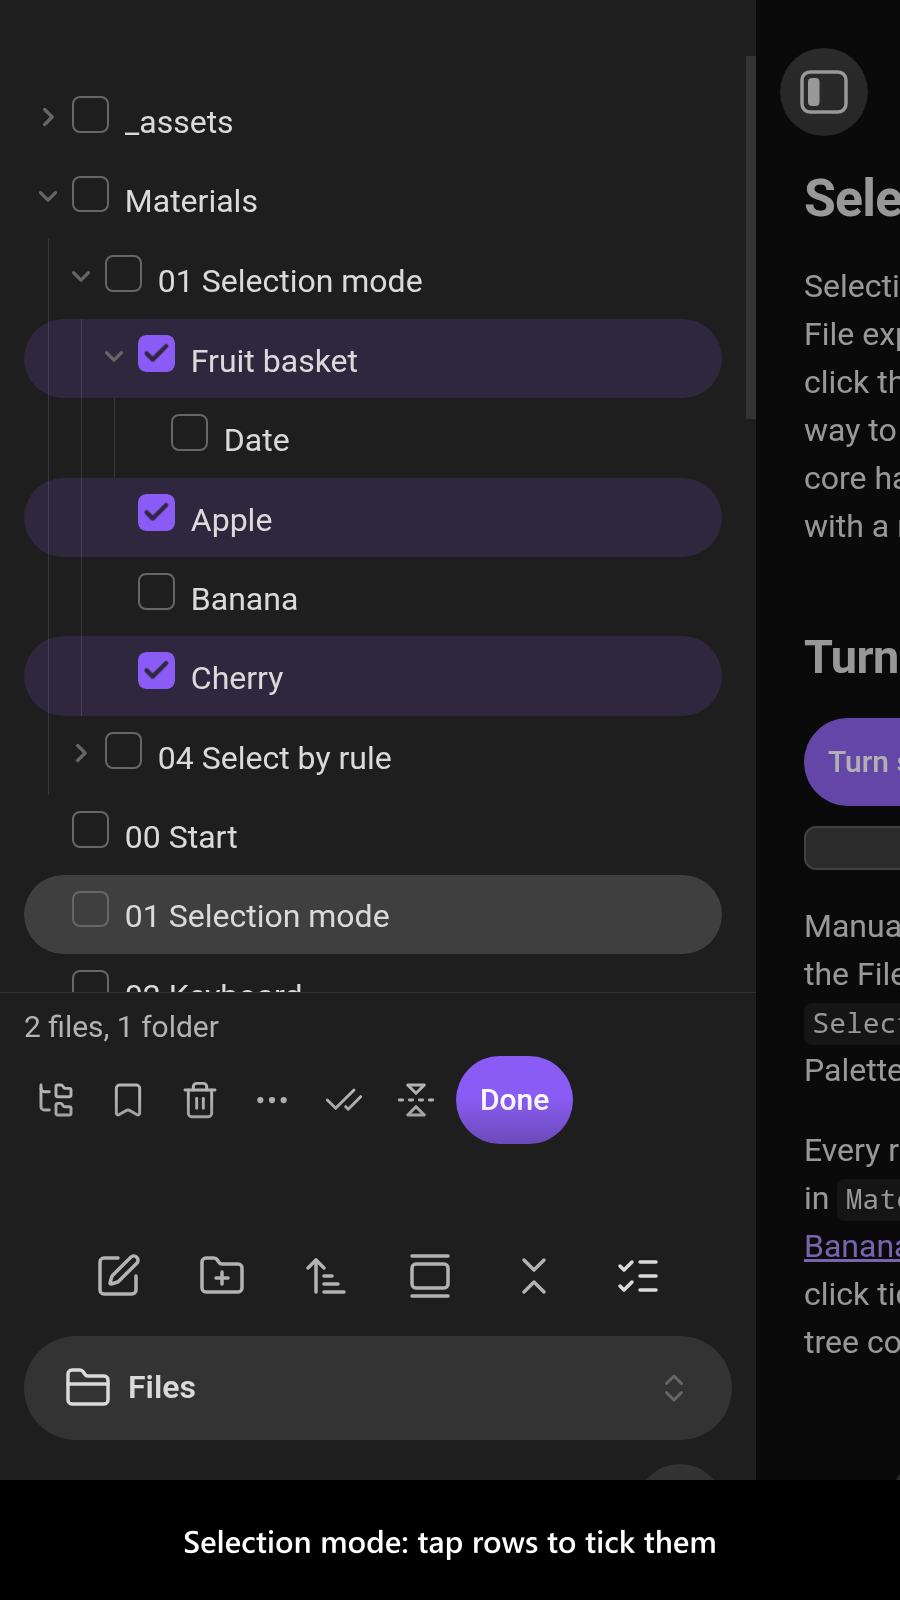
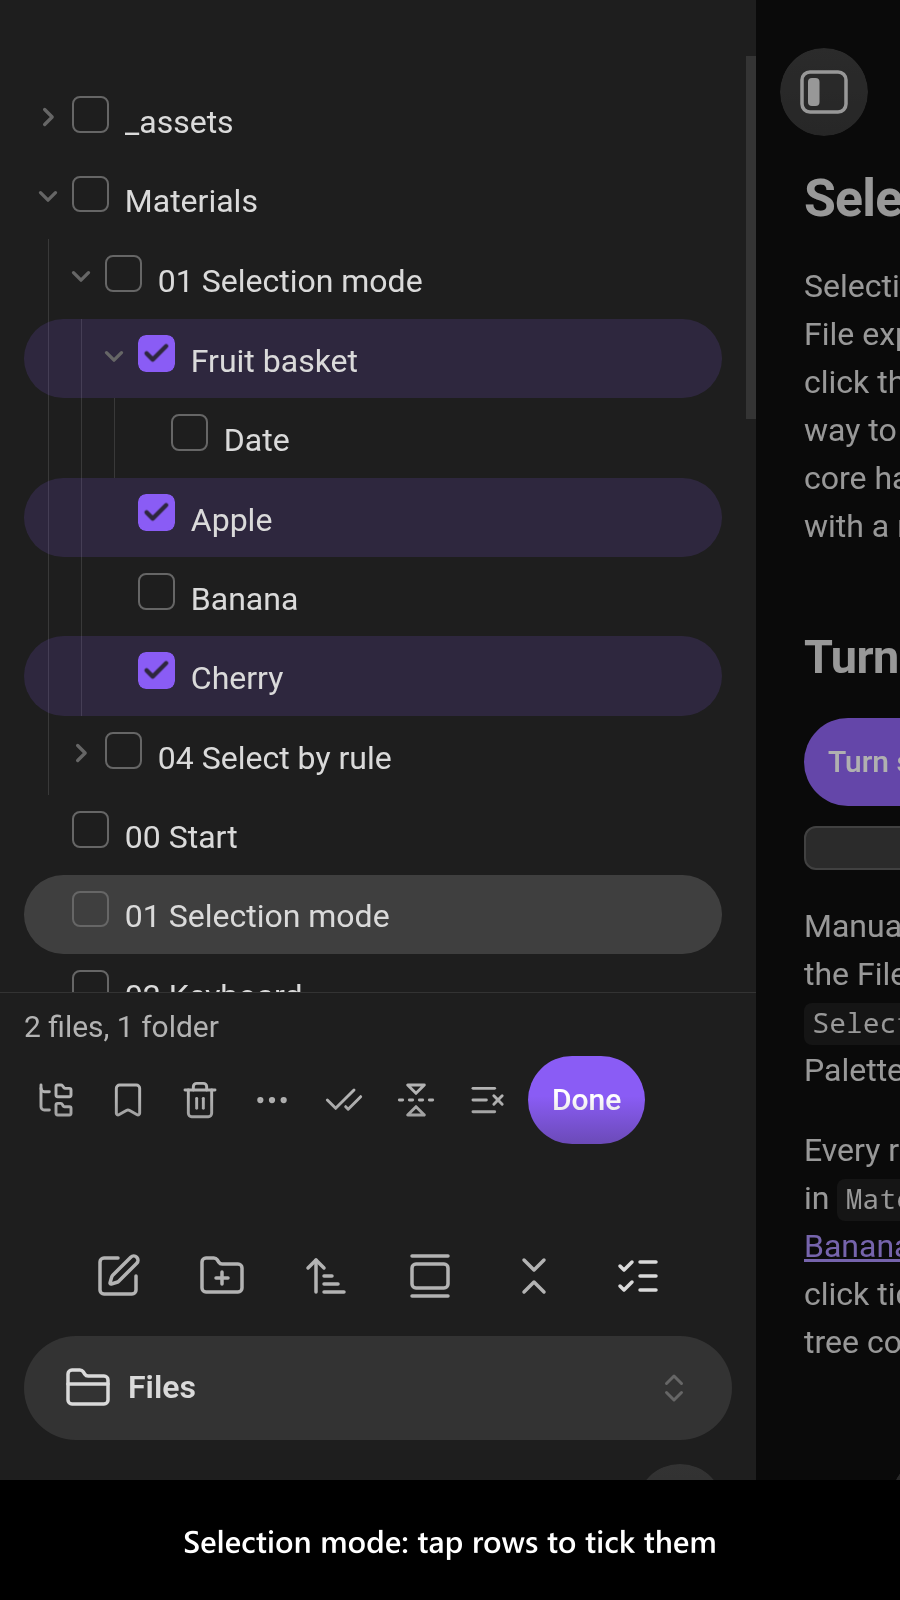
feat: add a Clear selection button to the selection mode's action bar

Changed region(s): [[0.4978, 0.6562, 0.7156, 0.7188]]

diff --git a/src/selection-mode.cross-platform.integration.test.ts b/src/selection-mode.cross-platform.integration.test.ts
@@ -40,6 +40,7 @@ interface MoreAndDeleteResult {
 interface TapResult {
   readonly activeFilePathAfterTaps: null | string;
   readonly activeFilePathBefore: null | string;
+  readonly afterClear: ModeSnapshot;
   readonly afterFolderTap: ModeSnapshot;
   readonly afterInvert: ModeSnapshot;
   readonly afterSelectAll: ModeSnapshot;
@@ -58,7 +59,7 @@ interface TurnOffResult {
 const OFF: ModeSnapshot = { countText: null, hasCheckbox: false, isActive: false, paths: [] };
 
 describe('selection mode in the File explorer', () => {
-  it('turns on from the header button, toggles rows on tap, counts, selects all, inverts and turns off', async () => {
+  it('turns on from the header button, toggles rows on tap, counts, selects all, clears, inverts and turns off', async () => {
     const tapResult = await evalInObsidian({
       async callback({ app, lib: { clickElement, waitUntil } }): Promise<TapResult> {
         const WAIT_TIMEOUT_IN_MILLISECONDS = 1500;
@@ -97,11 +98,18 @@ describe('selection mode in the File explorer', () => {
         await waitFor('select all', () => view.tree.selectedDoms.size > 2);
         const afterSelectAll = snapshot();
 
+        await clickElement({ element: getElement('[data-action="clear"]') });
+        await waitFor('clear', () => view.tree.selectedDoms.size === 0);
+        const afterClear = snapshot();
+
+        await clickElement({ element: getElement('[data-action="select-all"]') });
+        await waitFor('select all again', () => view.tree.selectedDoms.size > 2);
+
         await clickElement({ element: getElement('[data-action="invert"]') });
         await waitFor('invert', () => view.tree.selectedDoms.size === 0);
         const afterInvert = snapshot();
 
-        return { activeFilePathAfterTaps, activeFilePathBefore, afterFolderTap, afterInvert, afterSelectAll, afterTapAgain, afterTaps, afterToggle };
+        return { activeFilePathAfterTaps, activeFilePathBefore, afterClear, afterFolderTap, afterInvert, afterSelectAll, afterTapAgain, afterTaps, afterToggle };
 
         function getElement(selector: string): HTMLElement {
           const el = view.containerEl.querySelector(selector);
@@ -247,6 +255,7 @@ describe('selection mode in the File explorer', () => {
     expect(tapResult.afterTapAgain.paths).toEqual(['ems-mode/b.md']);
     expect(tapResult.afterFolderTap).toEqual({ countText: '1 file, 1 folder', hasCheckbox: true, isActive: true, paths: ['ems-mode/b.md', 'ems-mode/sub'] });
     expect(tapResult.afterSelectAll.paths).toEqual(expect.arrayContaining(['ems-mode', 'ems-mode/a.md', 'ems-mode/b.md', 'ems-mode/sub']));
+    expect(tapResult.afterClear).toEqual({ countText: 'Nothing selected', hasCheckbox: true, isActive: true, paths: [] });
     expect(tapResult.afterInvert).toEqual({ countText: 'Nothing selected', hasCheckbox: true, isActive: true, paths: [] });
     expect(turnOffResult.afterDone).toEqual(OFF);
     expect(turnOffResult.hasActionBarAfterDone).toBe(false);

diff --git a/src/explorer-selection-mode-component.test.ts b/src/explorer-selection-mode-component.test.ts
@@ -319,6 +319,23 @@ describe('ExplorerSelectionModeComponent', () => {
     expect(view.tree.selectedDoms.has(hidden)).toBe(false);
   });
 
+  it('clears the selection and stays on', () => {
+    const mode = loadMode();
+    const a = view.tree.addFile('a.md');
+    const b = view.tree.addFile('b.md');
+    mode.enter();
+    expect(actionButton('clear').hasClass('is-disabled')).toBe(true);
+
+    view.tree.selectItem(a);
+    view.tree.selectItem(b);
+    mode.refresh();
+    expect(actionButton('clear').hasClass('is-disabled')).toBe(false);
+
+    click(actionButton('clear'));
+    expect(view.tree.selectedDoms.size).toBe(0);
+    expect(mode.isActive).toBe(true);
+  });
+
   it('ignores an action that needs a selection while there is none', () => {
     const mode = loadMode();
     mode.enter();

diff --git a/src/explorer-selection-mode-component.ts b/src/explorer-selection-mode-component.ts
@@ -208,6 +208,15 @@ export class ExplorerSelectionModeComponent extends Component {
         invertSelection(this.view.tree);
       }
     });
+    this.addActionButton(buttonsEl, {
+      action: 'clear',
+      icon: 'list-x',
+      label: 'Clear selection',
+      onClick: (): void => {
+        // Unlike Done, the mode stays on, so the next taps start a fresh selection.
+        this.view.tree.clearSelectedDoms();
+      }
+    });
 
     const doneButtonEl = buttonsEl.createEl('button', { cls: 'mod-cta explorer-multi-select-action-bar-done', text: 'Done' });
     doneButtonEl.addEventListener('click', this.exit.bind(this));

diff --git a/src/styles/main.css b/src/styles/main.css
@@ -51,6 +51,7 @@
 
 .explorer-multi-select-action-bar-buttons {
   display: flex;
+  flex-wrap: wrap;
   align-items: center;
   gap: var(--size-4-1);
 }

diff --git a/AGENTS.md b/AGENTS.md
@@ -21,7 +21,7 @@ The repo was generated on 2026-10-17 with `create-obsidian-plugin` (preset `all-
 
 **Built: the selection core (design points 2 and 6).** `src/explorer-selection-component.ts` attaches to every File explorer tree. It adds Ctrl/Cmd+A, Space and a Shift+Up/Down range that shrinks when the direction reverses (`src/explorer-tree-keyboard.ts`), and it shows the selection's size in the status bar. `src/keyboard-selection.desktop.integration.test.ts` drives all of it with trusted key presses.
 
-**Built: the touch selection mode (design point 1).** `src/explorer-selection-mode-component.ts` gives every explorer a header button, and the `Toggle selection mode` command turns it on too. While it is on, CSS draws a checkbox on each row from core's `is-selected` class, a plain tap toggles the row, and a bar under the tree shows the count with Move, Bookmark, Delete, More, Select all, Invert and Done. Done clears the selection. On mobile a long-press enters the mode with the row selected, behind the `shouldEnterSelectionModeOnLongPress` setting (on by default). `src/selection-mode.cross-platform.integration.test.ts` and `src/long-press-selection-mode.android.integration.test.ts` drive it with trusted taps on desktop and Android.
+**Built: the touch selection mode (design point 1).** `src/explorer-selection-mode-component.ts` gives every explorer a header button, and the `Toggle selection mode` command turns it on too. While it is on, CSS draws a checkbox on each row from core's `is-selected` class, a plain tap toggles the row, and a bar under the tree shows the count with Move, Bookmark, Delete, More, Select all, Invert, Clear and Done. Clear empties the selection and keeps the mode on, and Done clears it and leaves the mode. On mobile a long-press enters the mode with the row selected, behind the `shouldEnterSelectionModeOnLongPress` setting (on by default). `src/selection-mode.cross-platform.integration.test.ts` and `src/long-press-selection-mode.android.integration.test.ts` drive it with trusted taps on desktop and Android.
 
 **Built: the click settings (design points 3 and 4).** `src/explorer-tree-click.ts` runs ahead of core's `handleItemSelection` on every explorer tree. With `shouldToggleSelectionOnCtrlOrCommandClick` on, a Ctrl/Cmd-click toggles the row the way core's Alt-click does, and opens nothing. With `shouldKeepSelectionOnClick` on, a plain click opens the file and keeps the selection. Both are off by default. `src/click-selection.desktop.integration.test.ts` turns them on through the settings tab and drives them with trusted clicks.
 
@@ -44,7 +44,7 @@ The repo was generated on 2026-10-17 with `create-obsidian-plugin` (preset `all-
 
 This is the starting point the owner approved. Refine it as the build goes.
 
-1. **Selection mode for touch, the biggest gap.** A toggle shows a checkbox on each row and an action bar: the count, Move, Delete, Bookmark, Select all, Invert and Done. A long-press enters it on mobile.
+1. **Selection mode for touch, the biggest gap.** A toggle shows a checkbox on each row and an action bar: the count, Move, Delete, Bookmark, Select all, Invert, Clear and Done. A long-press enters it on mobile.
 2. **Keyboard.** Ctrl/Cmd+A selects everything in the focused folder. Space toggles the focused item. Shift+Up/Down shrinks the range when the direction reverses.
 3. **Ctrl/Cmd-click toggles the selection, as an opt-in setting** that is off by default, because core uses that click to open a new tab.
 4. **Sticky selection.** An option keeps the selection when a plain click opens a file.

diff --git a/README.md b/README.md
@@ -43,7 +43,7 @@ A copy of the vault ships with every release. You can access it via any of the f
 
 ## What it does
 
-- **Selection mode** puts a checkbox on every row and an action bar under the tree, with Move, Bookmark, Delete, More actions, Select all, Invert selection and Done. A tap toggles a row instead of opening it. On mobile, a long-press turns it on. [01 Selection mode](<./demo-vault/01 Selection mode.md>)
+- **Selection mode** puts a checkbox on every row and an action bar under the tree, with Move, Bookmark, Delete, More actions, Select all, Invert selection, Clear selection and Done. A tap toggles a row instead of opening it. On mobile, a long-press turns it on. [01 Selection mode](<./demo-vault/01 Selection mode.md>)
 - **Keyboard selection**: `Ctrl+A` / `Cmd+A` selects the focused folder's rows, `Space` toggles the focused row, and a `Shift+Up` / `Shift+Down` range shrinks when you reverse direction. [02 Keyboard](<./demo-vault/02 Keyboard.md>)
 - **A selection count** in the status bar, such as `12 files, 3 folders`. [03 Selection count](<./demo-vault/03 Selection count.md>)
 - **Select by rule**: commands that select by extension, by glob pattern, by property value, or every file the explorer's filter shows, in the focused folder or everything under it, and a command that inverts the selection. [04 Select by rule](<./demo-vault/04 Select by rule.md>)

diff --git a/demo-vault/01 Selection mode.md b/demo-vault/01 Selection mode.md
@@ -27,6 +27,8 @@ Every row now has a checkbox. Click [Apple](<./Materials/01 Selection mode/Apple
   - selects every row the File explorer shows, inside expanded folders too.
 - **Invert selection**
   - selects every row that is not selected, and deselects the rest.
+- **Clear selection**
+  - deselects everything and keeps selection mode on, so the next taps start a fresh selection.
 - **Done**
   - clears the selection and leaves selection mode.
 
